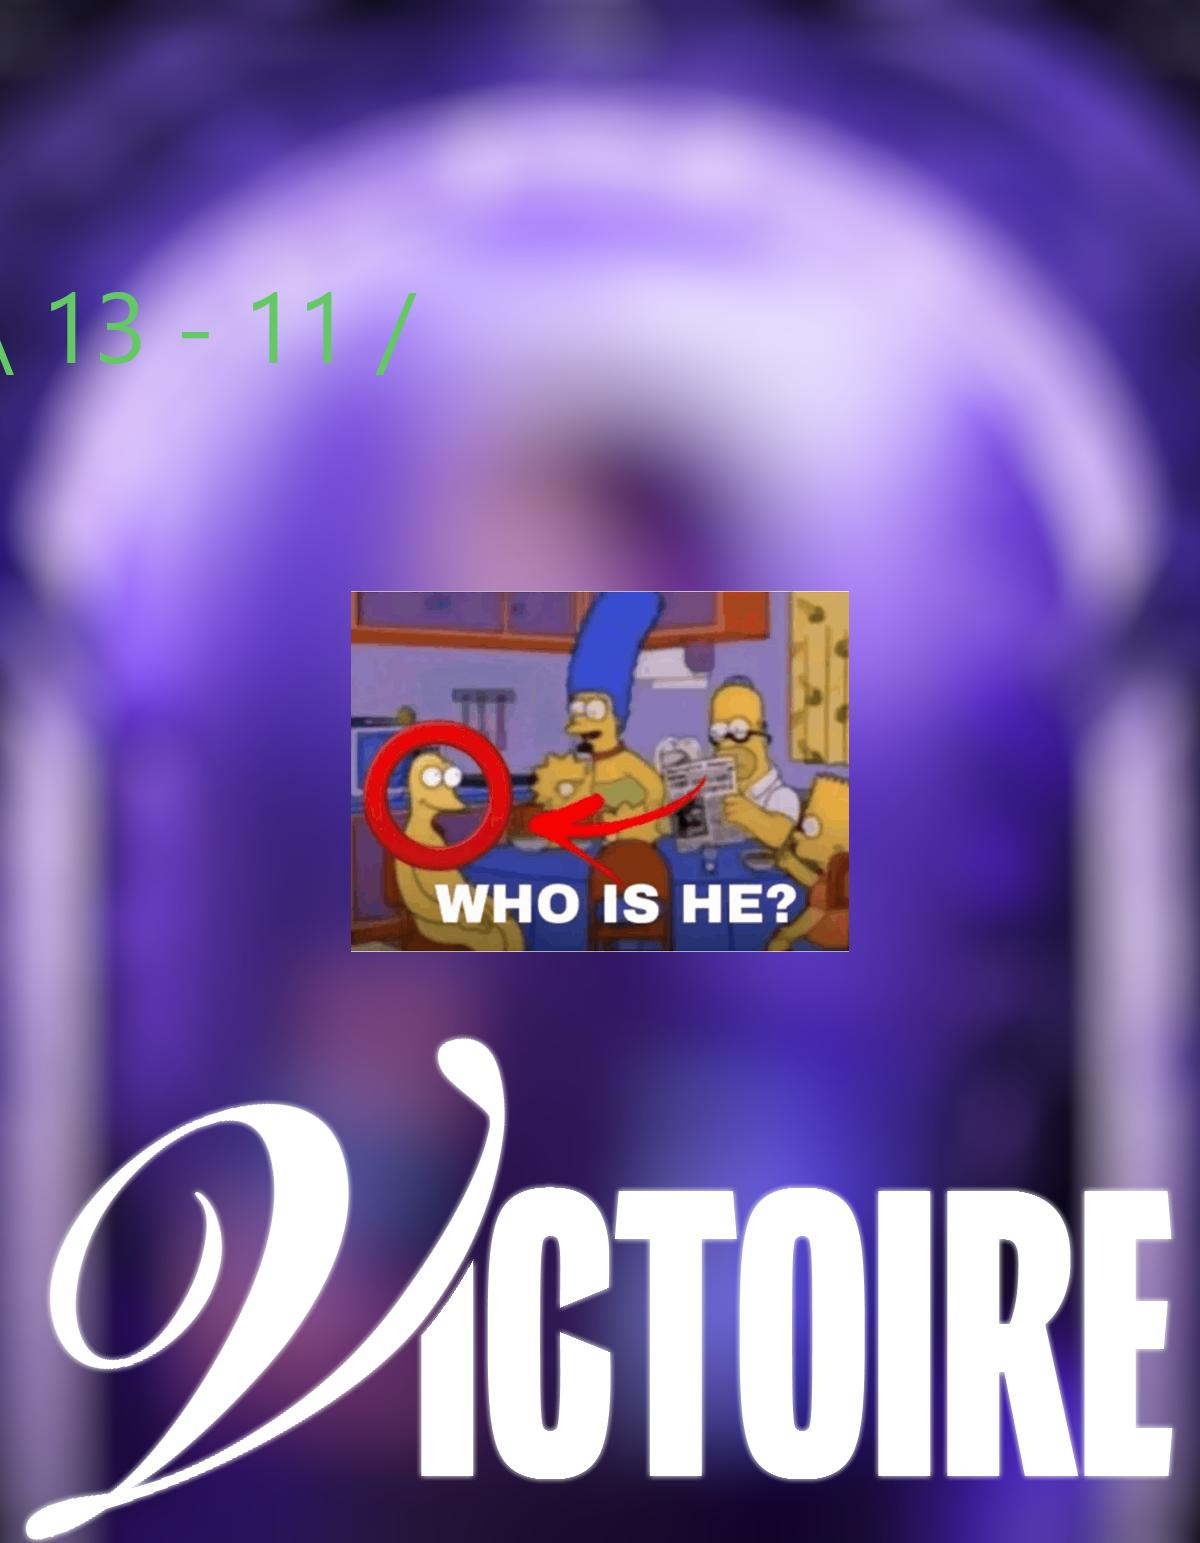
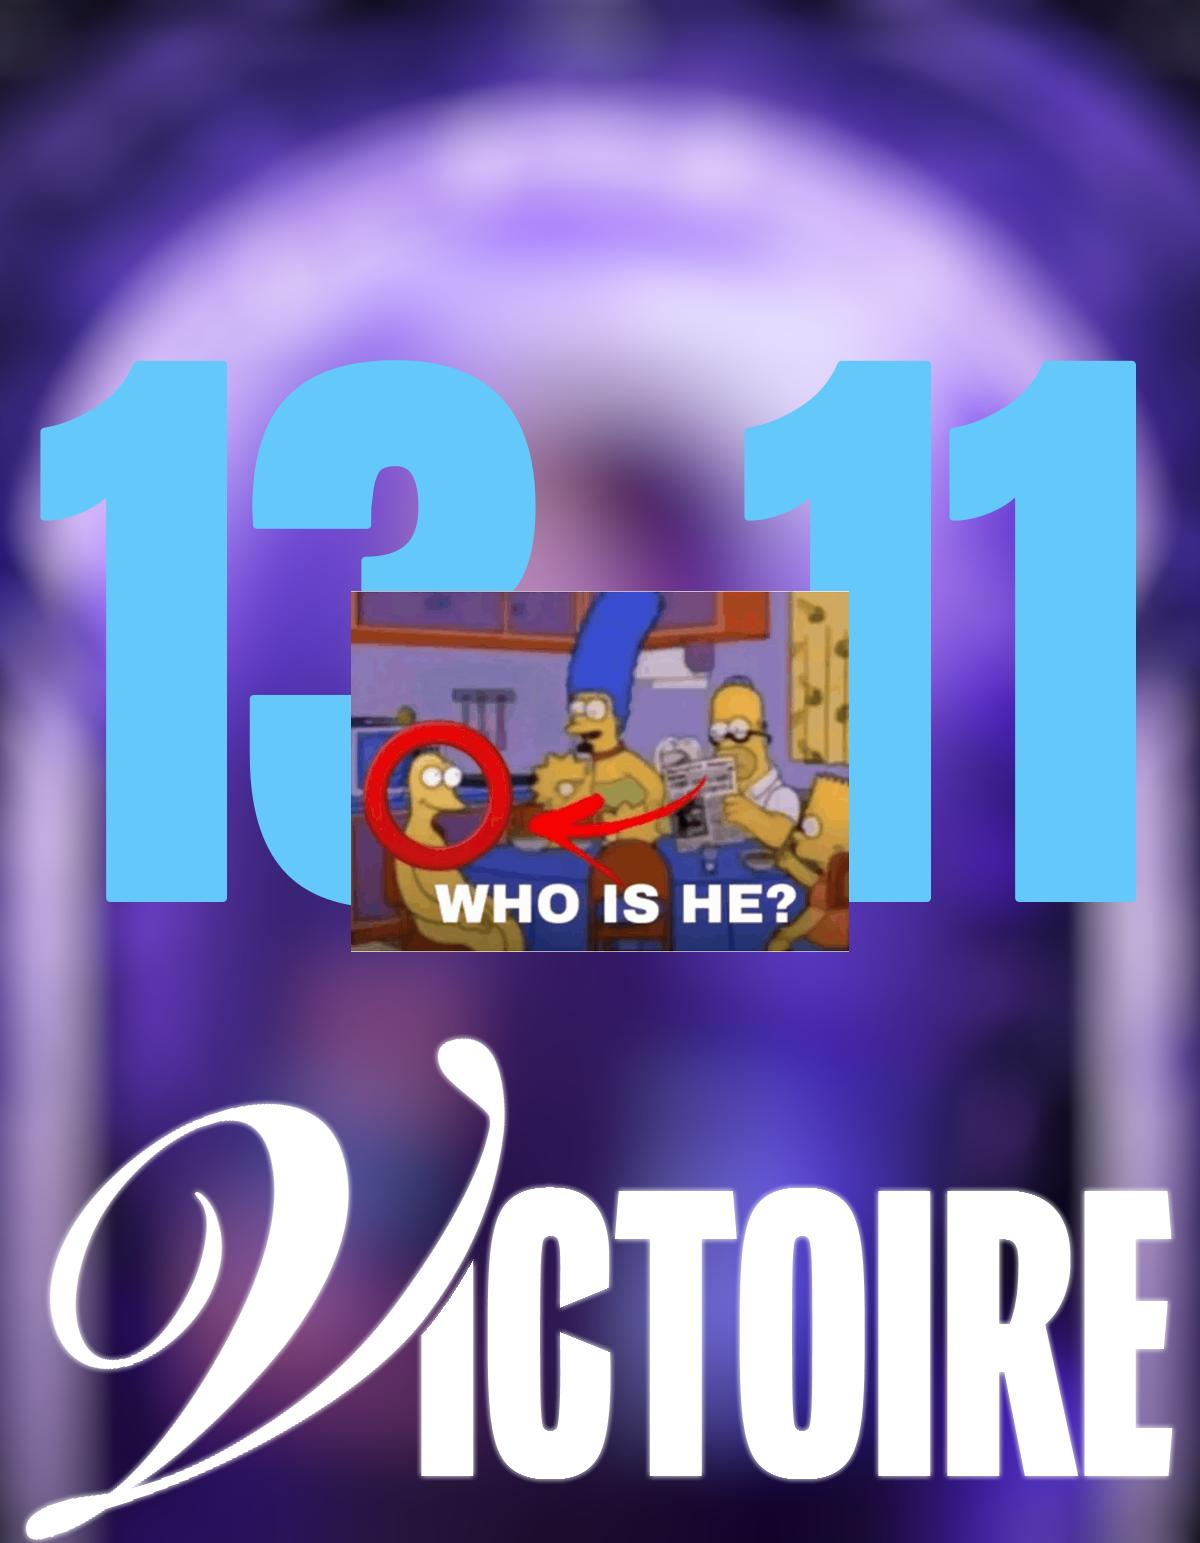
correctif

Changed region(s): [[0.0, 0.1866, 0.4625, 0.5911], [0.6167, 0.2178, 0.9558, 0.5911]]

diff --git a/lambeauxmaker.py b/lambeauxmaker.py
@@ -6,10 +6,9 @@ import os
 from datetime import date
 from PIL import Image, ImageDraw, ImageFont
 
-PATH_MJS = "images/photosmjs/"
-FONT_SUB = ImageFont.truetype("segoeui.ttf", size=100)      
-FONT_MVP = ImageFont.truetype("fonts/Anton-Regular.ttf", size=240) 
-SUBTEXT_COLOR = (100, 200, 100, 255)
+PATH_MJS = "images/photosmjs/" 
+FONT_MVP = ImageFont.truetype("fonts/Anton-Regular.ttf", size=620) 
+SUBTEXT_COLOR = (100, 200, 250, 150)
 
 def load_img(path:str)-> Image:
     return Image.open( path ).convert("RGBA")
@@ -19,14 +18,19 @@ class LambeauxMaker:
         imgMVP = self.load_MVP(nomMVP)
         self.mvp = nomMVP
 
-        winlooseIMG = self.load_MainText(victoire)
-        textcolor = (0, 255, 0, 255) if victoire else (255, 0, 0, 255)
-        ScoreText = f"\ {scoreEq1} - {scoreEq2} /"
+        winlooseIMG = self.load_MainText(victoire) 
+        ScoreText = f"{scoreEq1}-{scoreEq2}"
         background = self.load_Background()
 
-        self.merge(background, imgMVP, winlooseIMG ,ScoreText, textcolor)
+        self.merge(background, imgMVP, winlooseIMG ,ScoreText)
 
-    def merge(self, backgroundIMG:Image, profileIMG:Image, mainTextIMG:Image, subText:str, text_color:tuple):
+    def merge(self, backgroundIMG:Image, profileIMG:Image, mainTextIMG:Image, subText:str):
+        pos_x = backgroundIMG.size[0]//32
+        pos_y = backgroundIMG.size[1]//8
+        draw = ImageDraw.Draw(backgroundIMG) 
+        draw.text( (pos_x,pos_y) , subText, fill=SUBTEXT_COLOR, font=FONT_MVP, stroke_width=4,stroke_fill=SUBTEXT_COLOR)
+
+
         pos_x = backgroundIMG.size[0]//2 - profileIMG.size[0]//2
         pos_y = backgroundIMG.size[1]//2 - profileIMG.size[1]//2
         backgroundIMG.paste(profileIMG, (pos_x,pos_y) , profileIMG) 
@@ -34,10 +38,7 @@ class LambeauxMaker:
         pos_x = backgroundIMG.size[0]//2 - mainTextIMG.size[0]//2
         pos_y = int(backgroundIMG.size[1]*1.05)- mainTextIMG.size[1]
         backgroundIMG.paste(mainTextIMG, (pos_x,pos_y) , mainTextIMG)  
-        draw = ImageDraw.Draw(backgroundIMG)
-
-        pos_y //= 4
-        draw.text( (pos_x,pos_y) , subText, fill=SUBTEXT_COLOR, font=FONT_SUB)   
+        
 
         #sauvegarde
         backgroundIMG.convert("RGB").save(f"images/creations/{date.today()}=={self.mvp}==.jpg") 
